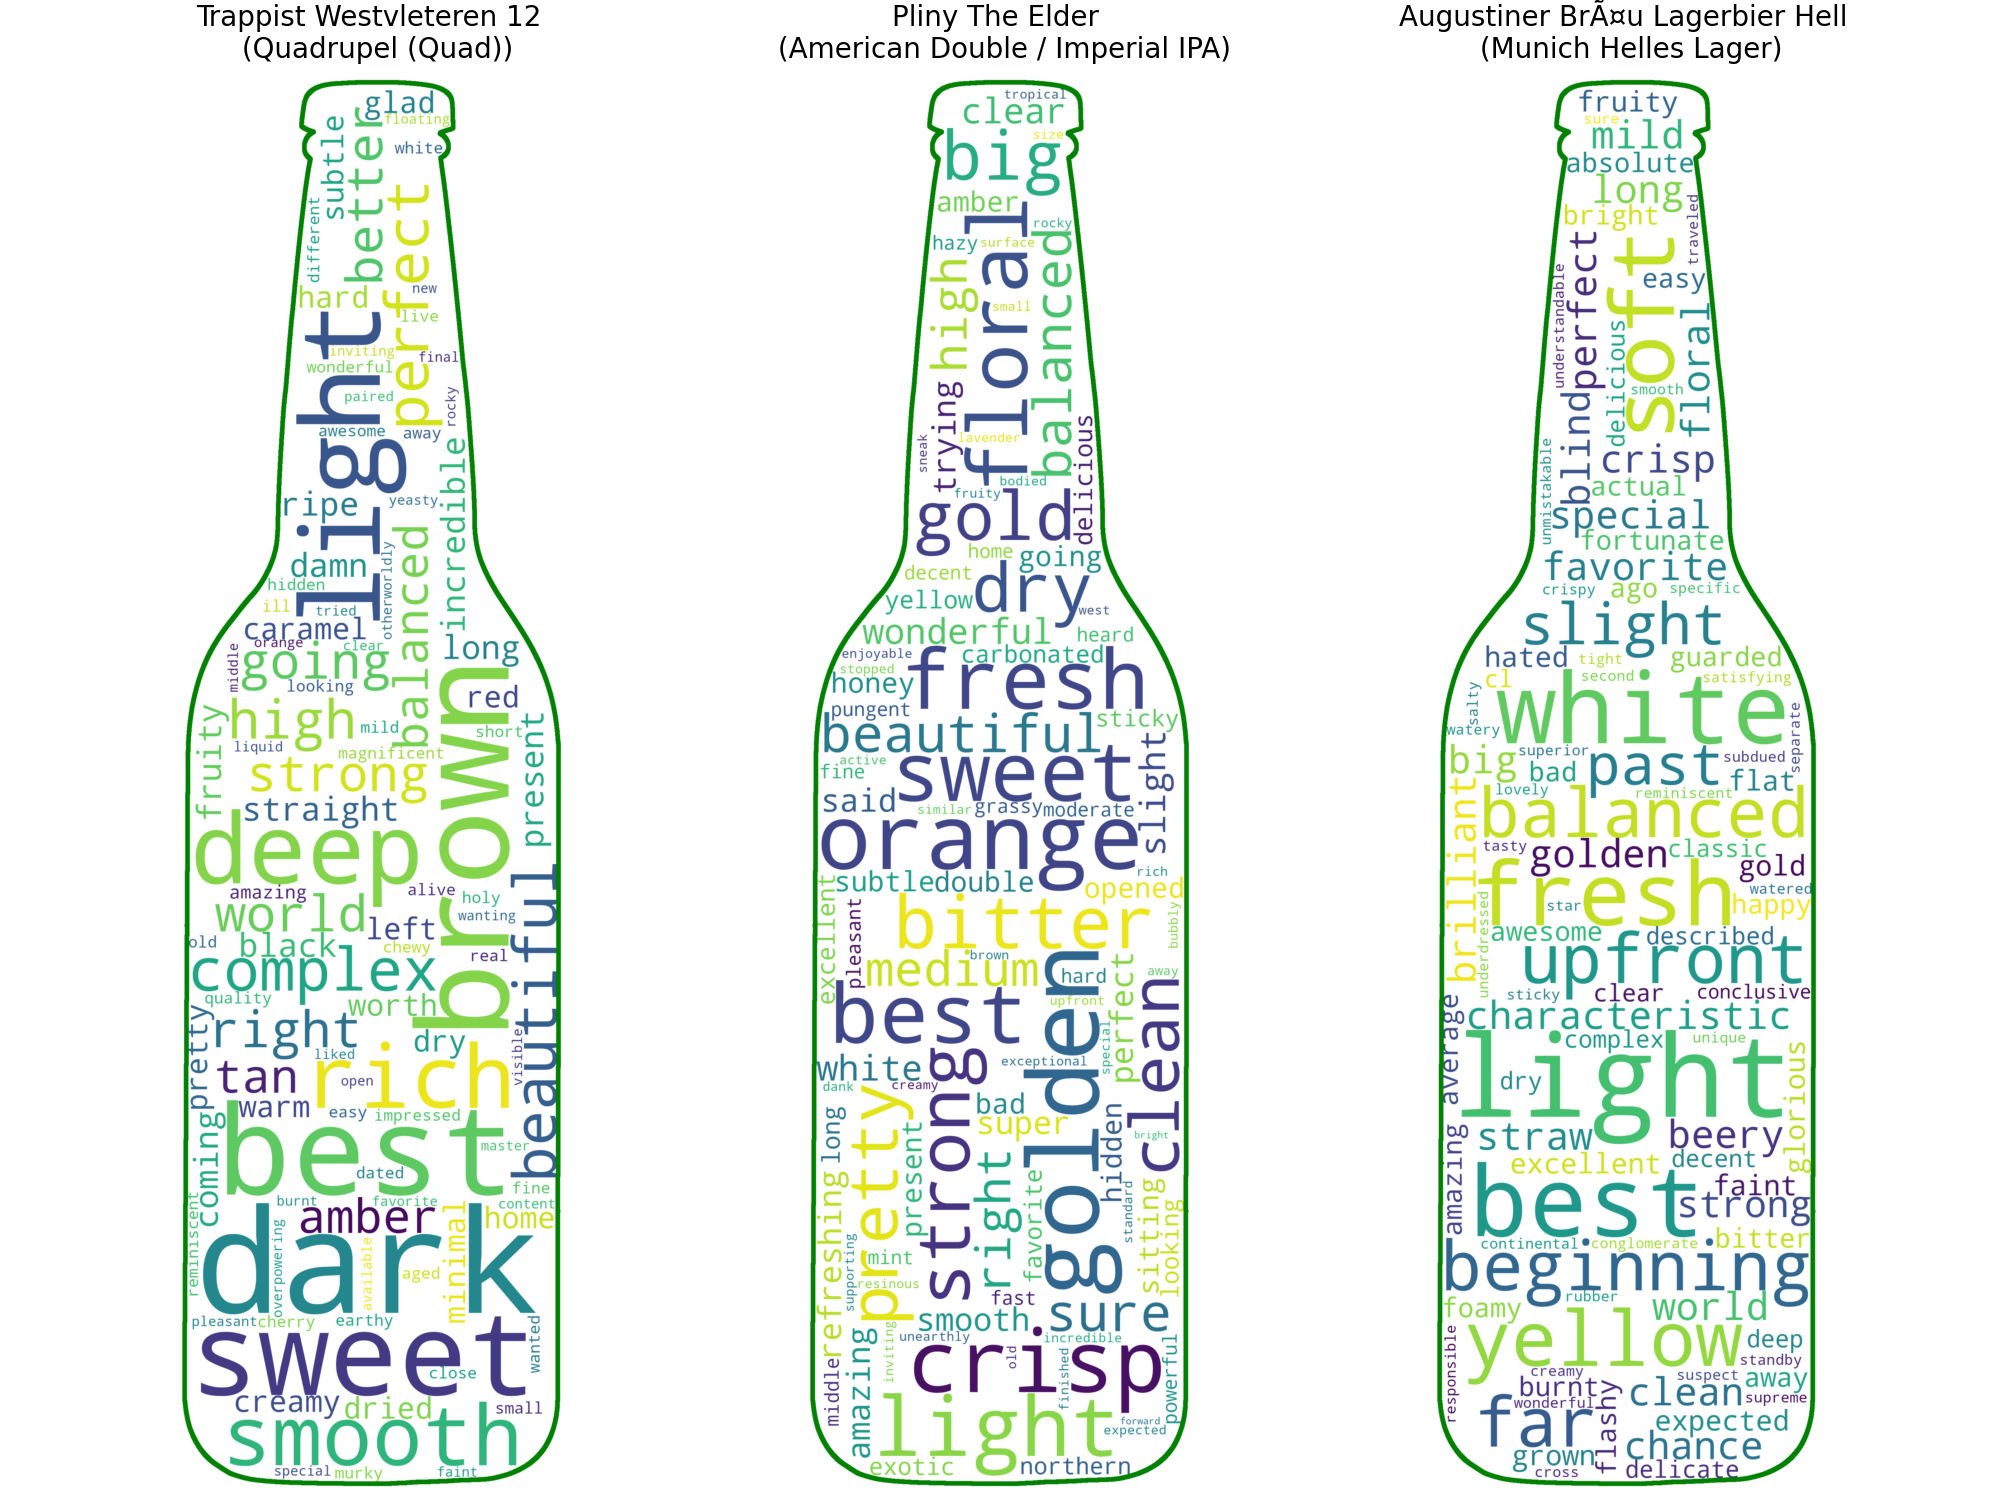
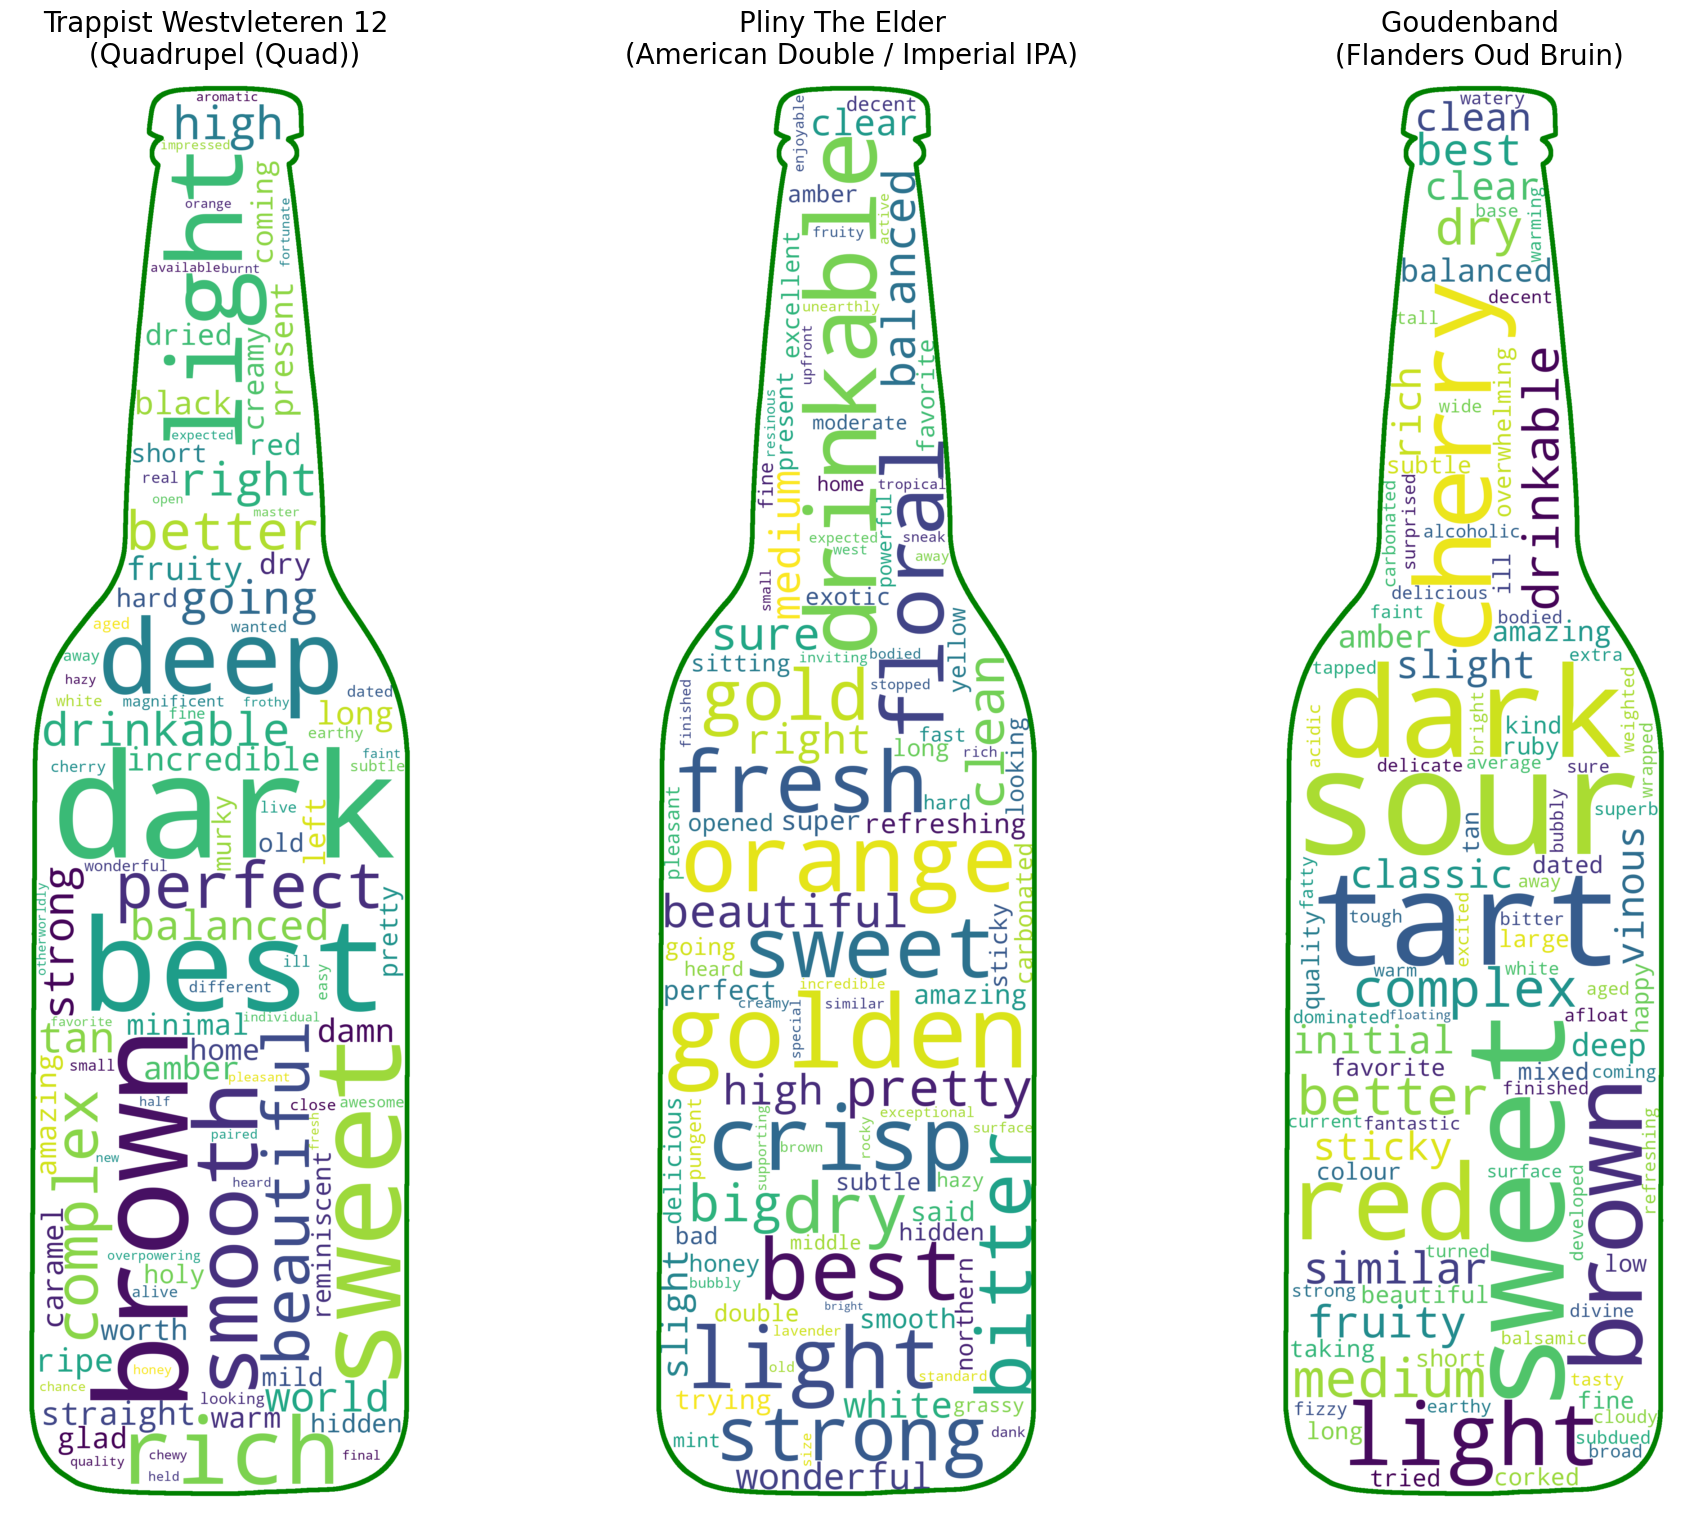
changes

Changed region(s): [[0.0, 0.0, 0.307, 1.0], [0.706, 0.0, 0.9823, 1.0], [0.3684, 0.0, 0.6446, 1.0]]

diff --git a/content/text-analysis.md b/content/text-analysis.md
@@ -25,21 +25,21 @@ The textual analysis was carried out by:
 
 ### **Community 1:**
 ![Community 1 Word Cloud](/images/community0.png)
-- *Beer Choices:* Quad, American Double/Imperial IPA, Munich Helles Lager.
-- *Top Words in Word Clouds:* dark, brown, sweet, light, deep, golden, orange, crisp, sweet, fresh, light, white, fresh, soft, yellow.
-- **Interpretation:** Community 1 appears to favor a diverse range of beer styles, including both darker and lighter options. The descriptive terms suggest an appreciation for nuanced flavors and varied sensory experiences.
+- *Beer Choices:* Quad, American Double/Imperial IPA, Flander Oud Bruin.
+- *Top Words in Word Clouds:* Dark, brown, sweet, light, deep, golden, orange, crisp, sweet, fresh, light, white, fresh, soft, yellow.
+- *Interpretation:* Community 1 appears to favor a diverse range of beer styles, including both darker and lighter options. The descriptive terms suggest an appreciation for nuanced flavors, colors and varied sensory experiences.
 
 ### **Community 2:**
 ![Community 2 Word Cloud](/images/community1.png)
 - *Beer Choices:* Old Ale, American Double/Imperial Stout.
-- *Top Words in Word Clouds:* dark, deep, aging, smooth, level, caramel black, dark, sweet, vanilla, carbonated.
-- **Interpretation:** Community 2 exhibits a preference for robust and full-bodied beers, characterized by rich, deep flavors and smooth textures. The descriptive terms imply a fondness for complexity and depth in beer profiles.
+- *Top Words in Word Clouds:* Dark, deep, aging, smooth, level, caramel black, dark, sweet, vanilla, carbonated.
+- *Interpretation:* Community 2 exhibits a preference for robust and full-bodied beers, characterized by rich, deep flavors and smooth textures. The descriptive terms imply a fondness for complexity and depth in beer profiles.
 
 ### **Community 3:**
 ![Community 3 Word Cloud](/images/community2.png)
-- *Beer Choices:* American IPA, American Double/Imperial IPA.
-- *Top Words in Word Clouds:* Stone, golden, smooth, crisp, easy, bitter, floral, orange, smooth, intense, easy.
-- **Interpretation:** Community 3 demonstrates a predilection for hop-forward and aromatic beers, with a focus on bold flavors and refreshing characteristics. The word choices suggest an inclination towards beers that offer a balance between bitterness and smoothness, with vibrant fruity and floral notes.
+- *Beer Choices:* American IPA, American Double/Imperial IPA, American Strong Ale.
+- *Top Words in Word Clouds:* Golden, smooth, crisp, easy, bitter, floral, orange, smooth, intense, easy.
+- *Interpretation:* Community 3 exhibits a preference for aromatic beers, with a focus on bold flavors and refreshing characteristics as IPAs are known for. The word choices suggest an inclination towards beers that offer a balance between bitterness and smoothness, with vibrant fruity and floral notes.
 
 ## **All beers in the communites:**
 Taking a look at the wordclouds for all reviews of well liked beers within a community (score ≥ 4/5), we see the communities as a whole exhibit similar preferences to eachother, however a slight preference skew is still present, similar to what was found between the top beers
